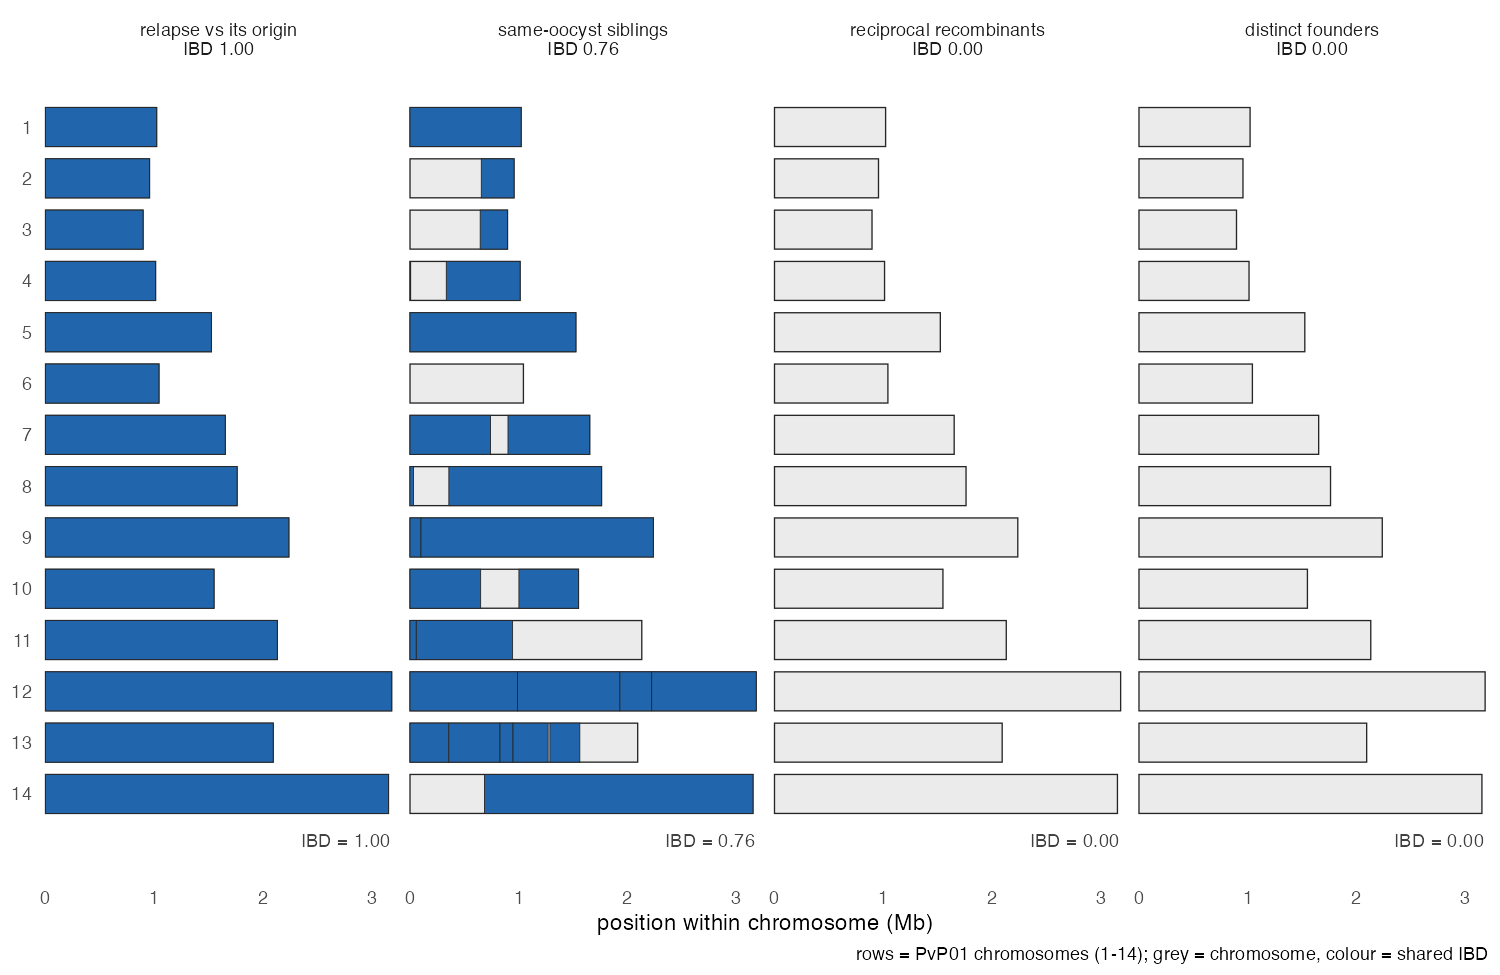
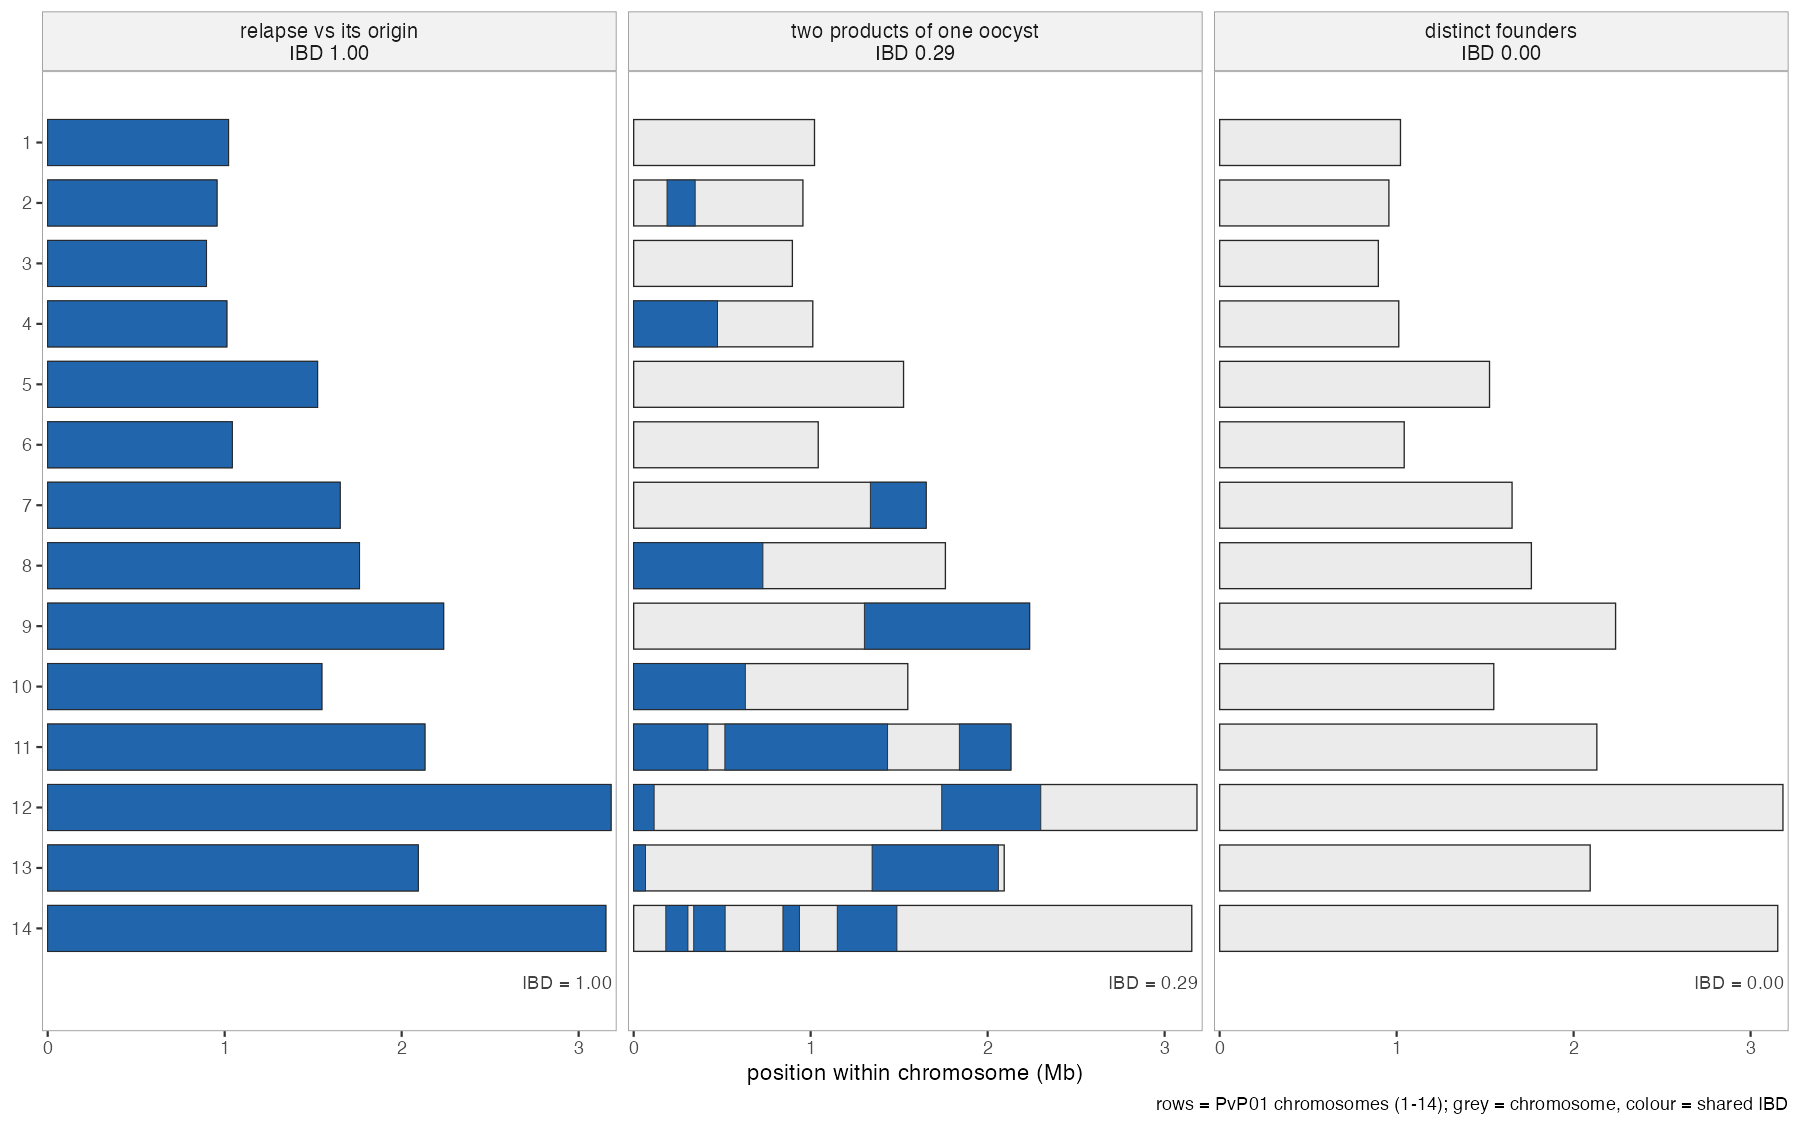
Make the documents' figures and quoted numbers from seeded runs (M33)
The representative-run, karyotype and detection figures, and the numbers
the model description quotes beside them, had no script or seed and
predated the recent model changes. dev/make-doc-figures.R runs the stated
configuration for seeds 1 to 10, with and without the detection example,
draws the figures from seed 1 and writes each number as the mean over
the seeds with its range to man/figures/representative-run.tsv. The text
quotes those means and ranges and says which seed, host and pairs are
drawn. The karyotype shows a relapse against its origin, two products
of one oocyst and distinct founders; the reciprocal-recombinants panel
drew the tetrad of an earlier model. Panel C's caption now says it
counts each host's relapses over the run.

diff --git a/MODEL_DESCRIPTION.md b/MODEL_DESCRIPTION.md
@@ -15,25 +15,30 @@ untreated, two-state-recurrence population.
 
 
 **A representative run** — 200 hosts, 400 mosquitoes, 3 years, `BITING_RATE` 0.08, 40 founder
-hosts carrying 10 lineages, ν = 3. Emergent: prevalence **0.246**, COI **1.14**, **13.3%**
-polyclonal, reservoir **0.9** hypnozoites/host, relapse fraction **0.657**, **2.23** relapses per
-person-year — all inside the four target bands of §13.
+hosts carrying 10 lineages, ν = 3. Over the second half of the run, as means over seeds 1 to 10
+with their range: prevalence **0.30** (0.08–0.46), COI **1.15** (1.03–1.28), **13%** polyclonal
+(3–23%), a reservoir of **1.0** hypnozoites per host (0.2–1.6), relapse fraction **0.65**
+(0.59–0.68) and **2.7** relapses per person-year at risk (1.2–4.1). The means sit inside the four
+target bands of §13. The figures below draw seed 1; `dev/make-doc-figures.R`, in the package's
+source repository, makes them and writes these numbers to `man/figures/representative-run.tsv`.
 
 ![Representative run](man/figures/README-representative-run.png)
 
-**A** one host's lineage trajectory: coloured bands are blood-stage lineages, the dashed line is
-that host's hypnozoite reservoir, and the marks below show new infections (triangles) against
-relapses (circles) — and, on a run with treatment failure, recrudescences (diamonds). **B** population host-state composition over time — note the teal
-*reservoir-only* band, which is invisible to any blood survey. **C** peak COI against the number
-of relapses a host goes on to experience (boxes drawn only where there are enough hosts; every
-level labelled with its n). **D** **molFOB vs FOI** — the compound force of blood-stage **clone acquisition** against the
-force from bites and imports alone; the distance between the lines is the relapse contribution. (A
-recrudescence is a new episode but not a new clone, so it enters neither series; see §9a.) **E** the
-realised IBD ladder, as the composition of each relationship class across relatedness bands.
+**A** one host's lineage trajectory, the host with the most relapses: coloured bands are
+blood-stage lineages, the dashed line is that host's hypnozoite reservoir, and the marks below show
+new infections (triangles) against relapses (circles) — and, on a run with treatment failure,
+recrudescences (diamonds). **B** population host-state composition over time — note the teal
+*reservoir-only* band, which is invisible to any blood survey. **C** each infected host's peak
+COI against the relapses it has over the run (boxes where at least 5 hosts reach that peak; every
+level labelled with its n). **D** **molFOB vs FOI** — the compound force of blood-stage **clone
+acquisition** against the force from bites and imports alone; the distance between the lines is
+the relapse contribution. (A recrudescence is a new episode but not a new clone, so it enters
+neither series; see §9a.) **E** the realised IBD ladder, as the composition of each relationship
+class across relatedness bands.
 
-Panel D carries the central vivax quantity: **molFOB 2.02 vs FOI 0.69 new clones per person-year,
-so 66% of blood-stage episodes are relapses**, and the gap widens through the run as the reservoir
-accumulates. Any method that reads new episodes as new transmission is reading that whole shaded
+Panel D carries the central vivax quantity: **molFOB 3.2 vs FOI 1.1 new clones per person-year**
+(means over the ten seeds; 0.6–5.4 and 0.3–1.8), **so about two-thirds of new blood-stage clones
+are relapses**, and the gap widens through the run as the reservoir accumulates. Any method that reads new episodes as new transmission is reading that whole shaded
 area as something it is not. (Panel E is deliberately a composition plot rather than a box: most
 relationship classes are point masses, while same-oocyst siblings spread out, in two groups around
 0.6 and 0.2 of the genome, and this shows both. `plot_relatedness_ladder(style = "points")` gives the continuous view, and
@@ -44,7 +49,8 @@ relationship classes are point masses, while same-oocyst siblings spread out, in
 Ground-truth IBD read from the ARG, painted along the 14 PvP01 chromosomes. A relapse is clonal to
 its originating hypnozoite (IBD 1.00); two products of one oocyst share a **mosaic** with visible
 crossover breakpoints, a third of the genome on average for unrelated parents; distinct founders
-share nothing.
+share nothing. Each pair is the one of its kind, in seed 1, whose IBD is nearest the kind's mean in
+that run.
 
 **Demonstrating the observation layer.** The same configuration rerun with
 `P_DETECT_PRIMARY = 0.60` and `P_DETECT_RELAPSE = 0.15` — relapses are often sub-patent, so a
@@ -52,15 +58,16 @@ surveillance system sees them less often than primaries.
 
 ![Detection](man/figures/README-detection.png)
 
-**A** true blood-stage episodes against detected ones. **B** the composition of each. The effect
-is not a uniform thinning but a **reweighting**: the true burden is **65.7% relapse / 34.3%
-reinfection**, while the detected line list reads **29.7% relapse / 70.3% reinfection**. Detection
+**A** true blood-stage episodes against detected ones, in seed 1. **B** the composition of each,
+over the second half of the run. The effect is not a uniform thinning but a **reweighting**: the
+true burden is **66% relapse / 34% reinfection** (63–69% relapse over the ten seeds), while the
+detected line list reads **33% relapse / 67% reinfection** (27–35%). Detection
 *inverts* the apparent mix, which is why any method that infers transmission from the observed
 origin split — Rc from case counts included — inherits a bias it cannot see.
 
-> At this transmission level outcrossing is rare — **168 recombinant against 3,277 clonal uptake
-> events (4.9%)** — so mosaics like the second panel are genuinely uncommon and most pairs sit at
-> 0 or 1. That is a model output, not a plotting limitation, and it is the same effect that makes
+> At this transmission level outcrossing is rare — **5.4% of uptakes are recombinant** (0.7–9.6%
+> over the ten seeds; 251 of 5,025 in seed 1) — so mosaics like the second panel are genuinely
+> uncommon and most pairs sit at 0 or 1. That is a model output, not a plotting limitation, and it is the same effect that makes
 > relapse hard to distinguish genetically in low-transmission settings.
 
 ---
